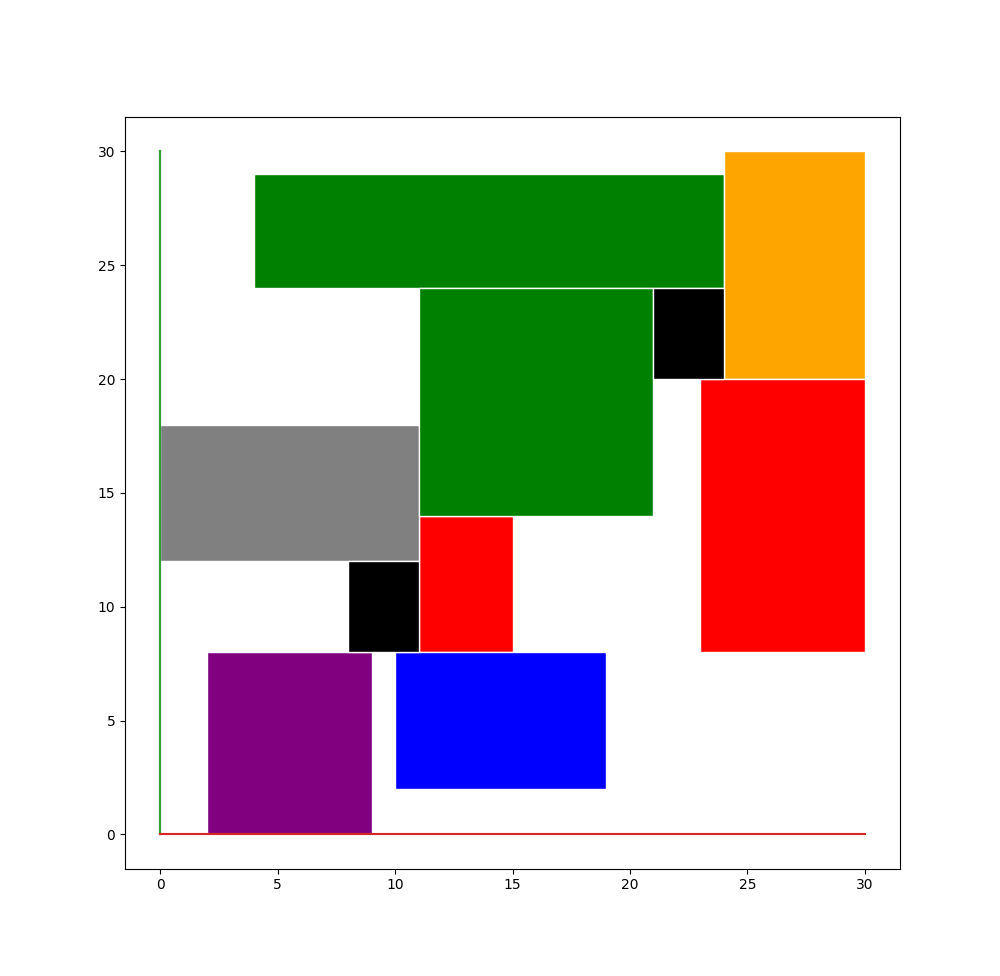
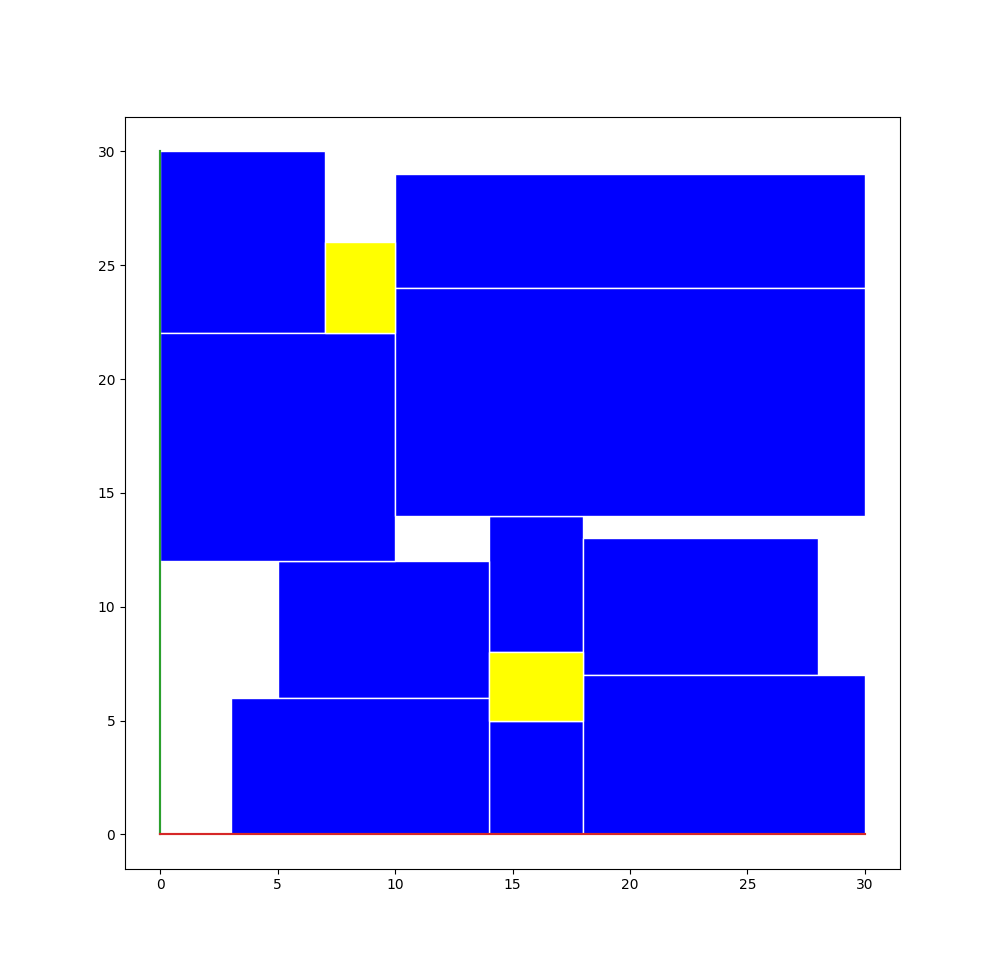
comment

diff --git a/automated-reasoning/exercise2.py b/automated-reasoning/exercise2.py
@@ -8,16 +8,6 @@ import copy
 from collections import namedtuple
 from math import dist
 
-class Capturing(list):
-    def __enter__(self):
-        self._stdout = sys.stdout
-        sys.stdout = self._stringio = StringIO()
-        return self
-    def __exit__(self, *args):
-        self.extend(self._stringio.getvalue().splitlines())
-        del self._stringio    # free up some memory
-        sys.stdout = self._stdout
-
 def flatten(xss):
     return [x for xs in xss for x in xs]
 
@@ -141,10 +131,11 @@ def touch(c1, c2):
     ])
     ])
 
-D = 18
+D = 19
+# This part goes wrong due to rounding errors. We still find a solution for 19, but it's actually a solution for 18
 
 def get_center(rect):
-    return Point(tl(rect).x + rect[2] / 2, tl(rect).y + rect[3] /2)
+    return Point(tl(rect).x + rect[2], tl(rect).y + rect[3])
 
 connected_to_power = [
     Or([
@@ -156,6 +147,7 @@ connected_to_power = [
 
 p1 = power_components[0]
 p2 = power_components[1]
+
 
 power_component_distance = [Or([
     get_center(p1).x >= get_center(p2).x + D,
@@ -192,8 +184,8 @@ def plot_rects(comps: list, facecolor=None):
         ax.add_patch(Rectangle((x, y), w, h, facecolor=color, edgecolor="white"))
 
 
-plot_rects(regular_components)
-plot_rects(power_components, "black")
+plot_rects(regular_components, "blue")
+plot_rects(power_components, "yellow")
 #create simple line plot
 
 
